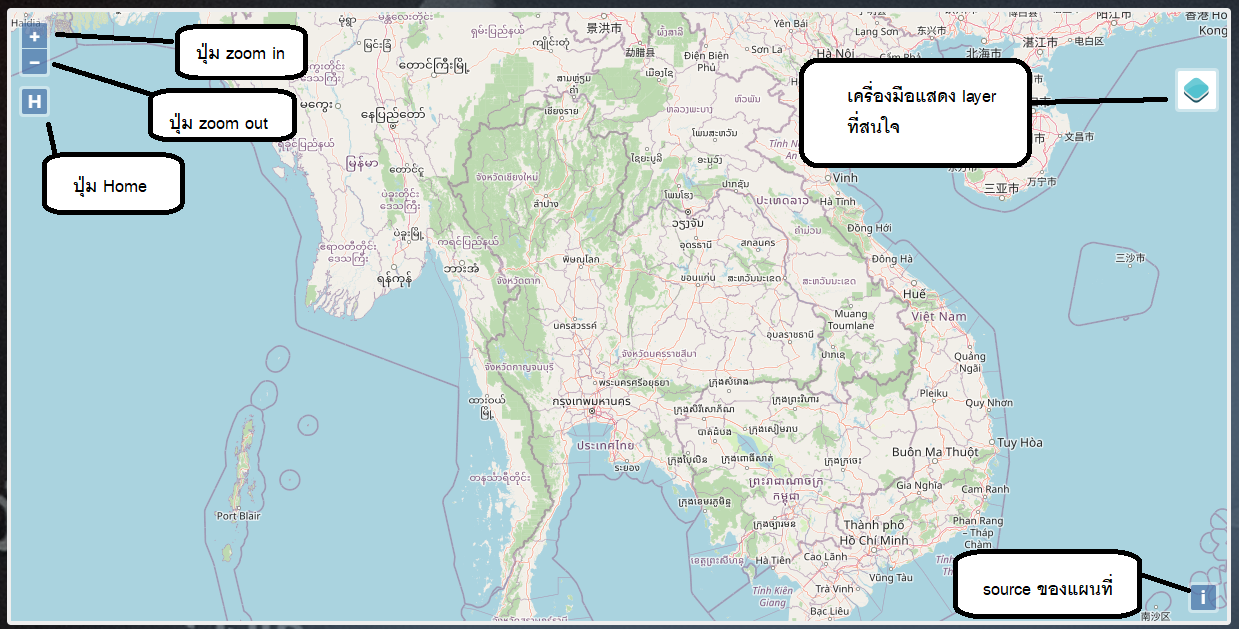
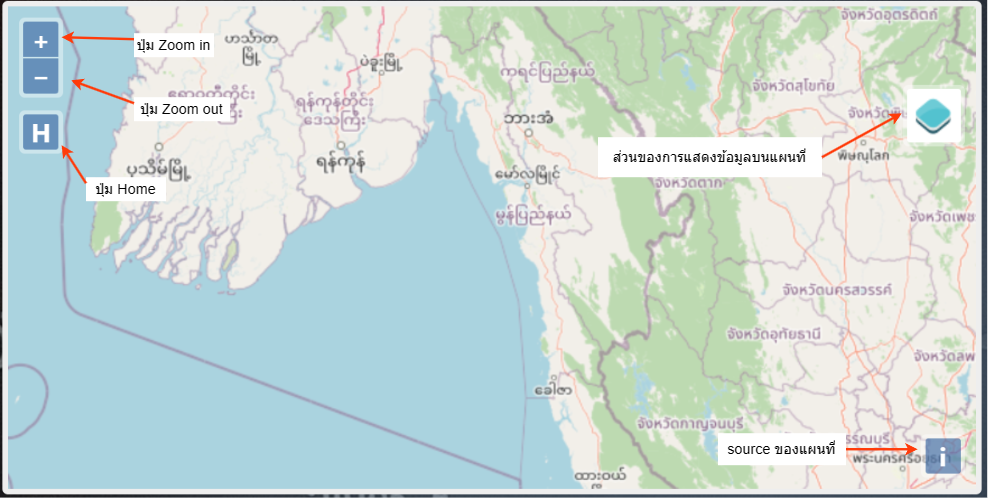
update img and edit text

diff --git a/src/Components/MapComponents/OpenLayerComponent.jsx b/src/Components/MapComponents/OpenLayerComponent.jsx
@@ -90,7 +90,7 @@ class CustomZoomToExtent extends ZoomToExtent {
               fold: "open",
               source: new TileWMS({
                 attributions: "@TileWMS",
-                url: "http://3.25.109.42:8080/geoserver/gis_data/wms?",
+                url: "http://ec2-3-25-92-36.ap-southeast-2.compute.amazonaws.com:8080/geoserver/gis_data/wms?",
                 params: {
                   LAYERS: "gis_data:bd_province",
                 },
@@ -103,7 +103,7 @@ class CustomZoomToExtent extends ZoomToExtent {
               visible: false,
               source: new TileWMS({
                 attributions: "@TileWMS",
-                url: "http://3.25.109.42:8080/geoserver/gis_data/wms?",
+                url: "http://ec2-3-25-92-36.ap-southeast-2.compute.amazonaws.com:8080/geoserver/gis_data/wms?",
                 params: {
                   LAYERS: "gis_data:hos_th",
                 },
@@ -115,7 +115,7 @@ class CustomZoomToExtent extends ZoomToExtent {
               visible: false,
               source: new TileWMS({
                 attributions: "@TileWMS",
-                url: "http://3.25.109.42:8080/geoserver/gis_data/wms?",
+                url: "http://ec2-3-25-92-36.ap-southeast-2.compute.amazonaws.com:8080/geoserver/gis_data/wms?",
                 params: {
                   LAYERS: "gis_data:police_th2",
                 },
@@ -127,7 +127,7 @@ class CustomZoomToExtent extends ZoomToExtent {
               visible: false,
               source: new TileWMS({
                 attributions: "@TileWMS",
-                url: "http://3.25.109.42:8080/geoserver/gis_data/wms?",
+                url: "http://ec2-3-25-92-36.ap-southeast-2.compute.amazonaws.com:8080/geoserver/gis_data/wms?", //ec2-3-25-92-36.ap-southeast-2.compute.amazonaws.com
                 params: {
                   LAYERS: "gis_data:waterways",
                 },
@@ -144,7 +144,7 @@ class CustomZoomToExtent extends ZoomToExtent {
                   visible: false,
                   source: new TileWMS({
                     attributions: "@TileWMS",
-                    url: "http://3.25.109.42:8080/geoserver/gis_data/wms?",
+                    url: "http://ec2-3-25-92-36.ap-southeast-2.compute.amazonaws.com:8080/geoserver/gis_data/wms?",
                     params: {
                       LAYERS: "gis_data:central",
                     },
@@ -155,7 +155,7 @@ class CustomZoomToExtent extends ZoomToExtent {
                   visible: false,
                   source: new TileWMS({
                     attributions: "@TileWMS",
-                    url: "http://3.25.109.42:8080/geoserver/gis_data/wms?",
+                    url: "http://ec2-3-25-92-36.ap-southeast-2.compute.amazonaws.com:8080/geoserver/gis_data/wms?",
                     params: {
                       LAYERS: "gis_data:east",
                     },
@@ -166,7 +166,7 @@ class CustomZoomToExtent extends ZoomToExtent {
                   visible: false,
                   source: new TileWMS({
                     attributions: "@TileWMS",
-                    url: "http://3.25.109.42:8080/geoserver/gis_data/wms?",
+                    url: "http://ec2-3-25-92-36.ap-southeast-2.compute.amazonaws.com:8080/geoserver/gis_data/wms?",
                     params: {
                       LAYERS: "gis_data:north",
                     },
@@ -177,7 +177,7 @@ class CustomZoomToExtent extends ZoomToExtent {
                   visible: false,
                   source: new TileWMS({
                     attributions: "@TileWMS",
-                    url: "http://3.25.109.42:8080/geoserver/gis_data/wms?",
+                    url: "http://ec2-3-25-92-36.ap-southeast-2.compute.amazonaws.com:8080/geoserver/gis_data/wms?",
                     params: {
                       LAYERS: "gis_data:northeast",
                     },
@@ -188,7 +188,7 @@ class CustomZoomToExtent extends ZoomToExtent {
                   visible: false,
                   source: new TileWMS({
                     attributions: "@TileWMS",
-                    url: "http://3.25.109.42:8080/geoserver/gis_data/wms?",
+                    url: "http://ec2-3-25-92-36.ap-southeast-2.compute.amazonaws.com:8080/geoserver/gis_data/wms?",
                     params: {
                       LAYERS: "gis_data:south",
                     },
@@ -199,7 +199,7 @@ class CustomZoomToExtent extends ZoomToExtent {
                   visible: false,
                   source: new TileWMS({
                     attributions: "@TileWMS",
-                    url: "http://3.25.109.42:8080/geoserver/gis_data/wms?",
+                    url: "http://ec2-3-25-92-36.ap-southeast-2.compute.amazonaws.com:8080/geoserver/gis_data/wms?",
                     params: {
                       LAYERS: "gis_data:west",
                     },

diff --git a/src/Components/TapComponents/Menu.jsx b/src/Components/TapComponents/Menu.jsx
@@ -124,7 +124,7 @@ export default function Menu() {
           <div style={{ marginLeft: "100px" }}>
             {" "}
             {/* Add margin to separate the image and text */}
-            <p>ขอบเขตพื้นที่ต่างๆ</p>
+            <p>ขอบเขตพื้นที่ที่สนใจ</p>
           </div>
         </div>
         <div style={{ display: "flex" }}>
@@ -132,7 +132,7 @@ export default function Menu() {
           <div style={{ marginLeft: "100px" }}>
             {" "}
             {/* Add margin to separate the image and text */}
-            <p>ตำแหน่งพิกัดต่างๆ</p>
+            <p>ตำแหน่งพิกัดของสถานที่</p>
           </div>
         </div>
         <div style={{ display: "flex" }}>

diff --git a/README.md b/README.md
@@ -24,12 +24,26 @@ npm install primereact
 # === to Run project ====
 ```
 npm run dev
+
+//Upgrade Node.js using a version manager like nvm
+nvm install 18
+nvm use 18
+
+//Upgrade npm to the latest version
+npm install -g npm@latest
 ```
 
 # === to config Your Github ====
 ```
 git config --global user.email "you@example.com"
 git config --global user.name "Your Name"
+```
+
+# === to config CLI root ====
+```
+//for change permission of Folder(or directory)
+sudo chown -R ubuntu:ubuntu /YOUR/DIRECTORY
+
 ```
 
 # === to config Your server in vite.config.js ====
@@ -46,4 +60,9 @@ export default defineConfig({
     port: 5173,
   }
 });
+```
+
+# === warning!!!  ====
+```
+if data don't show on map, let check your Geoserver
 ```
